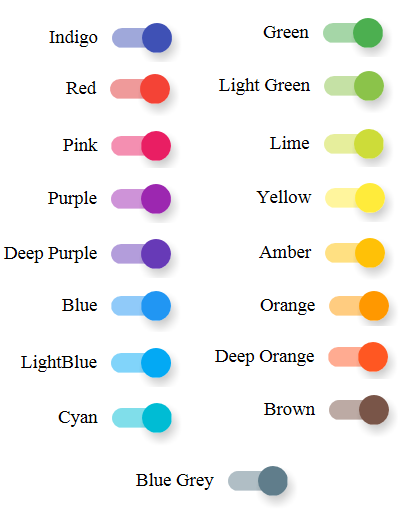
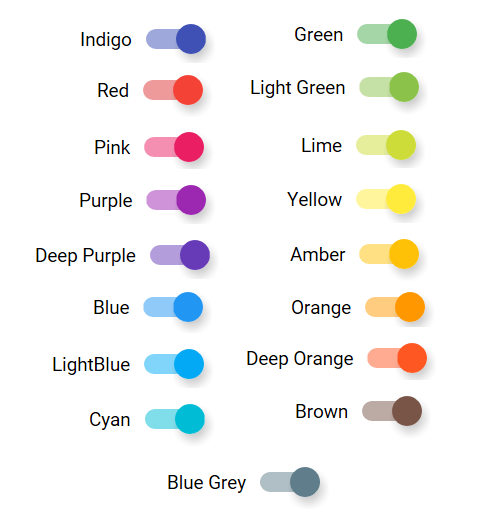
added images and font
Added roboto font on import in CSS
Update Images to reflect the added roboto font

diff --git a/Extensions/Objects/materialToggle/materialToggle.css b/Extensions/Objects/materialToggle/materialToggle.css
@@ -1,4 +1,6 @@
+@import url(https://fonts.googleapis.com/css?family=Roboto:400,500,700);
 h2, h3, h4 {
+	font-family: 'Roboto', sans-serif;
 	font-weight:500;
 }
 
